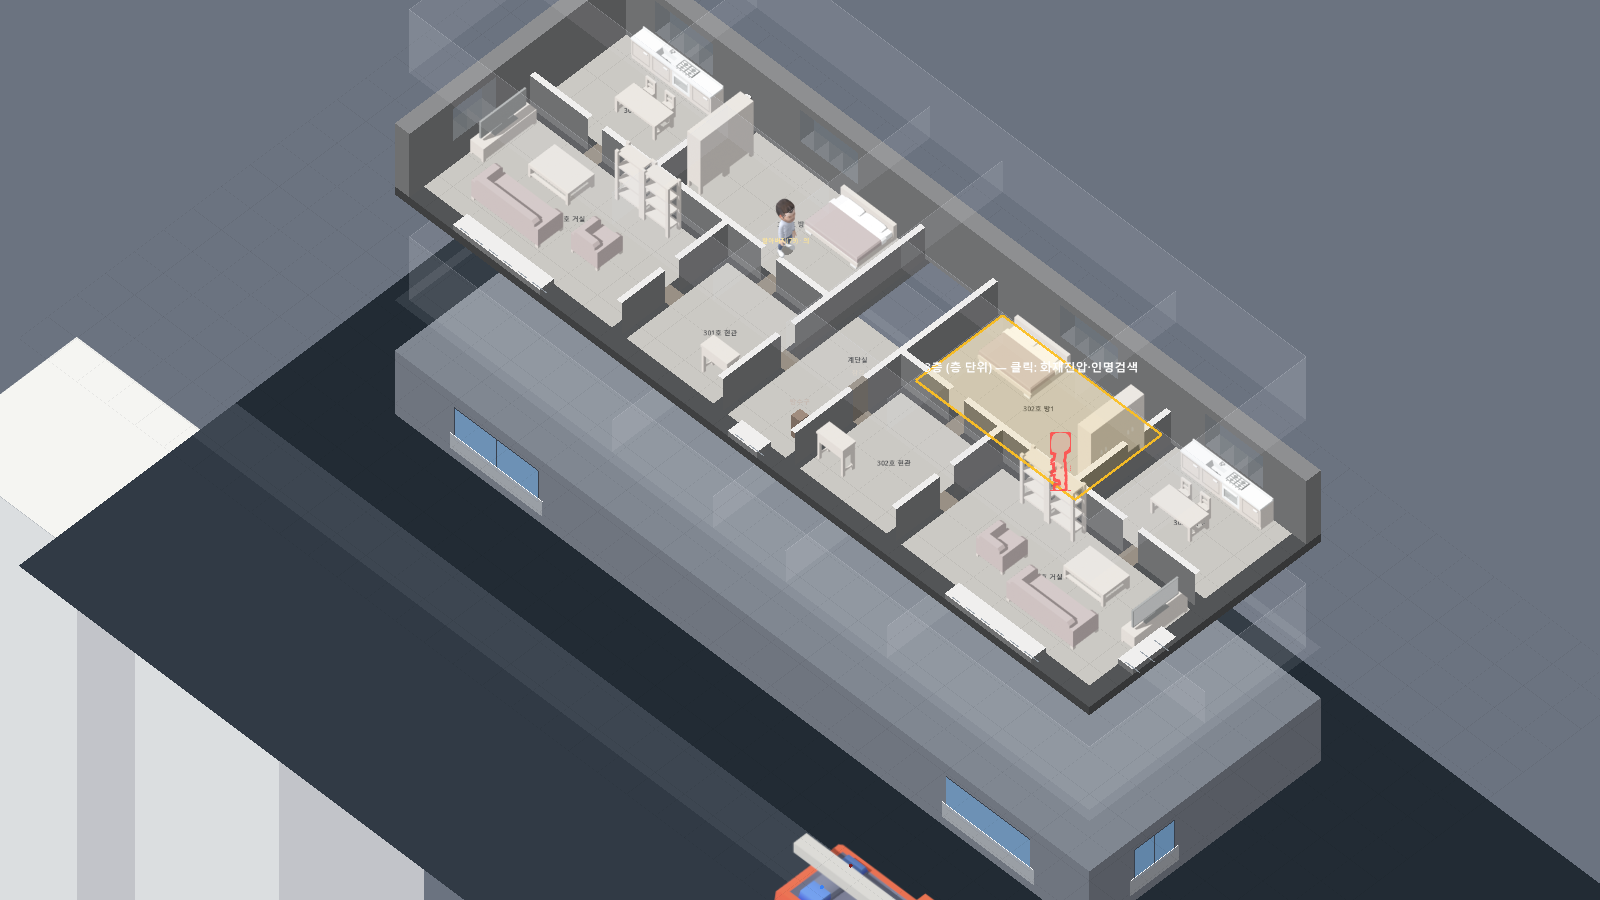
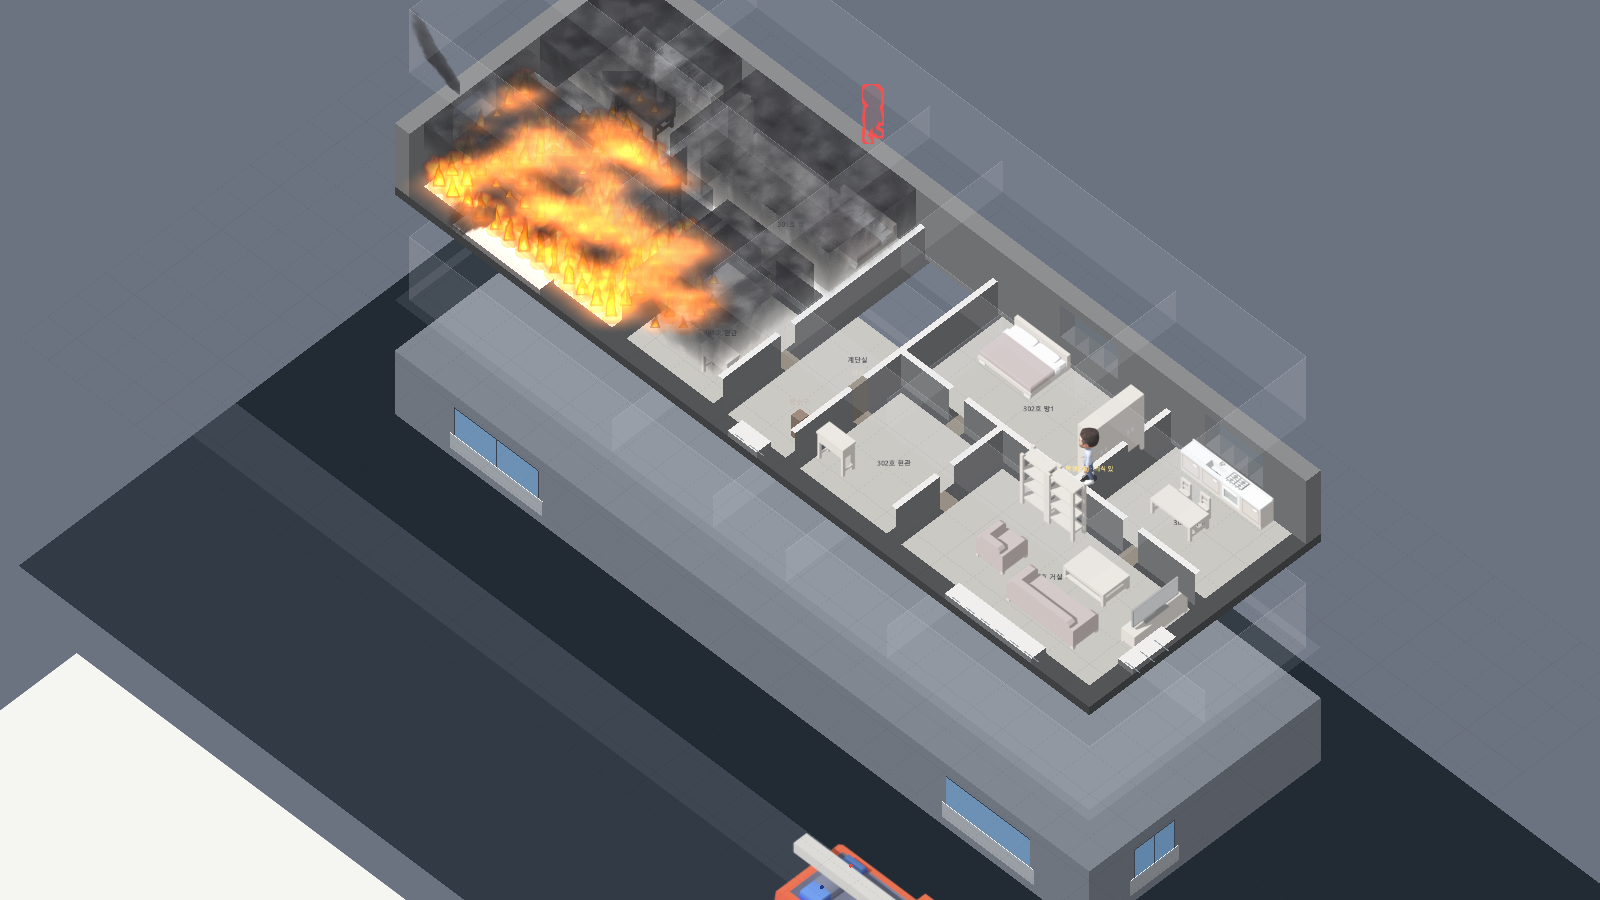
F04: 연기 상자 — 윗면은 천장 높이, 앞면은 천장 쪽부터 옅어지게 (겹쳐 진해지던 문제)

diff --git a/docs/decisions.md b/docs/decisions.md
@@ -111,3 +111,4 @@
 | 2026-11-12 | F04 | 연기 윗면·기둥·넘침 (Blender 플립북) | 같은 스크립트(tools/blender/smoke_fx.py <폴더> <종류>)로 세 가지 더 구움. ① 윗면 smoke_sheet(위에서 본 연기 판, 가로·세로 타일 192px=2m, 군데군데 틈): 방 안쪽 덩어리 대신 연기층 아랫면 높이에 깔고, 불난 곳에서 멀어지는 쪽으로 0.06m/s 흘려 퍼지는 모습. ② 기둥 smoke_plume: 방마다 타는 칸 가운데에서 천장까지 솟아 위에서 퍼짐(불꽃과 같은 정보 규칙). ③ 넘침 smoke_spill: 바깥으로 난 창·문 윗부분에서 나와 위로 말려 오름(단면·외관 모두, 예전 덩어리 기둥 대신). 방 사이 문 넘침은 인방~천장 틈에 눌려 검은 붓 자국처럼 보여 그리지 않음 | 사용자 결정(커튼 시험 승인 후 나머지 셋). 방 사이 문은 옆방 연기층이 대신 보여 줌 |
 | 2026-11-12 | F04 | 연기 선두 (천장을 따라 퍼진 뒤 쌓임) | A: 시뮬레이션에 연기 선두 추가. 방마다 출발점(불난 방 = 타는 칸 가운데, 옆방 = 연기가 들어온 개구부)과 선두 거리. 교재 수평 0.5~1m/s(화재2 제4편 제7절, 기획안 5-3-1)로 나아가고 상부층이 뜨거울수록(외기+200℃에서 최대) 빠름. 다 덮기 전: 덮인 원 안에만 천장류 두께(천장 높이 × 0.1, Alpert)의 얇은 판·커튼, 가장자리에 말려 나가는 덩어리, 선두 밖은 시야 맑음, 선두가 닿지 않은 개구부로는 넘치지 않음. 다 덮은 뒤: 예전처럼 연기층이 아래로 쌓임. 연기 부피·두께 계산(2층 구획 모델)은 그대로 | 사용자 결정 — 실제 화재성상(솟음 → 천장 따라 퍼짐 → 아래로 쌓임 → 문 윗면 아래로 내려오면 옆방). B(화면만 흉내)는 화면·시뮬 어긋남, C(공간 쪼개기)는 과함 |
 | 2026-11-12 | F04 | 연기 진하기 통일 | 진하기 하나 = 1 - e^(-1.2 × 짙기 × 연기층 두께), 상한 0.75 (짙기 = 0.25 + 0.75 × (1 - 가시거리/10m)). 커튼 천장 쪽과 윗면 판이 같은 값. 커튼은 천장 1 → 연기층 아랫면 0.4로 옅어짐(꼭짓점 색). 윗면 그림은 틈 때문에 평균 불투명도 0.42라 모자란 만큼 고른 색을 아래에 깔아 평균을 맞춤(fx.json mean_alpha) | 사용자 결정 — 커튼(벽 쪽)은 검고 천장 쪽은 옅어 물리(천장이 가장 진하고 아래로 옅어짐)와 거꾸로 보였음. 원인: 같은 연기를 커튼 0.52·윗면 0.29로 그렸고, 커튼은 위아래가 같은 진하기, 아래쪽 그늘이 짙은 연기처럼 보임. 커튼 다시 굽기(그늘 없애기)는 보류 |
+| 2026-11-12 | F04 | 연기 상자 (겹침 없애기, 1단계) | 한 방의 연기를 상자 윗면(천장 높이, Blender 윗면 그림)과 앞면 둘(남·동, 커튼 그림)로만 그린다 — 세 면은 화면에서 겹치지 않는다. 윗면 진하기 = 1 - e^(-k × 짙기 × 두께), 앞면은 천장 쪽이 윗면과 같고 연기층 아랫면에서 0.15배(시선이 연기를 지나는 거리). 연기가 쌓이면 앞면이 아래로 길어지고 윗면이 진해진다 | 사용자 결정 — 아랫면 높이의 판과 앞면 커튼이 겹쳐 두 번 칠해짐. 다음: 2) 벽 천장까지 + 아래 진하게·위 옅게 그라데이션 + 흰 윗면 테두리, 3) 대상 앞 벽 옅게·연기에 덮인 대원 테두리 |

diff --git a/docs/progress.md b/docs/progress.md
@@ -36,3 +36,4 @@
 | 2026-11-12 | F04 연기 윗면·기둥·넘침 플립북 | tools/blender/smoke_fx.py(종류별 굽기), art/fx/smoke_sheet·smoke_plume·smoke_spill.png(새)·fx.json, scripts/ui/fx_art(draw_flip)·building/floor_layer(_draw_smoke_sheet·_draw_fire_plumes·_draw_smoke_spills·smoke_spills)·view_params, data/ui/view_params, tests(test_art, test_cutaway) | 사용자 게임 확인 대기. 외관 넘침이 가늘게 보이면 굵기·진하기 조정 |
 | 2026-11-12 | F04 연기 선두 | scripts/simulation/compartment(compartment 선두·opening center·compartment_model _advance_front·넘침 조건), fire_sim(_start_fire_fronts), perception(선두 밖 맑음·room_seen_reach), scripts/ui/fx_art(draw_flip_poly)·building/floor_layer(선두 원 자르기·가장자리), data/fire/fire_params(smoke_front_*·ceiling_jet_depth_ratio), tests(test_smoke_front 새, _shot_house front 옵션, _probe_smoke 점검 도구) | 시나리오가 신고 몇 분 뒤에 시작해 처음 화점실은 이미 덮여 있음 — 퍼지는 모습은 문을 열거나 새 방으로 번질 때 보임. 먼 방 연기층이 화점실보다 두꺼워지는 현상은 따로 점검 필요 |
 | 2026-11-12 | F04 연기 진하기 통일 | scripts/ui/fx_art(draw_flip 아래쪽 배율·mean_alpha)·building/floor_layer(진하기 하나·윗면 바탕색·커튼 위아래 변화)·view_params, data/ui/view_params(smoke_max_opacity·smoke_opacity_k·smoke_curtain_low, 예전 smoke_curtain_alpha·smoke_sheet_alpha 지움), art/fx/fx.json(mean_alpha), tools/blender/smoke_fx.py(mean_alpha 기록), tests/test_cutaway | 전체가 조금 어두워짐 — 바닥이 잘 안 보이면 smoke_max_opacity 낮추기 |
+| 2026-11-12 | F04 연기 상자 1단계 | scripts/ui/building/floor_layer(윗면을 천장 높이로)·view_params, data/ui/view_params(smoke_curtain_low 0.15) | 연기가 많이 찬 뒤(5분)는 전체가 꽤 어두움 — smoke_max_opacity로 조정. 벽(2단계)·벽 옅게(3단계) 남음 |
